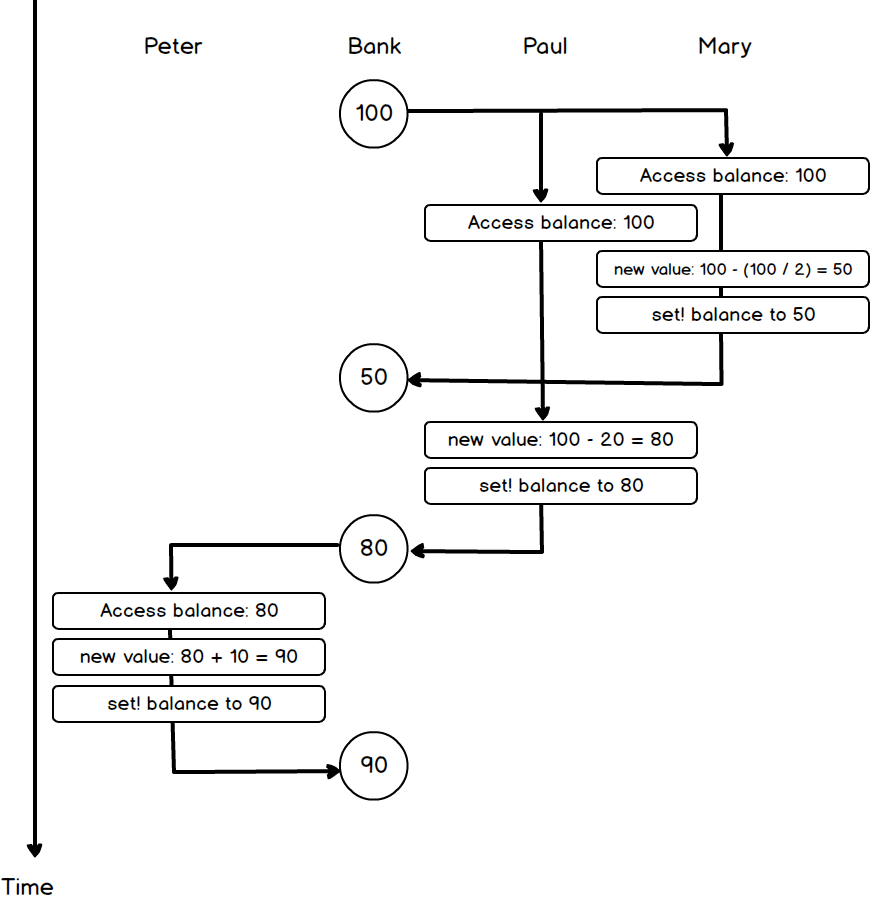
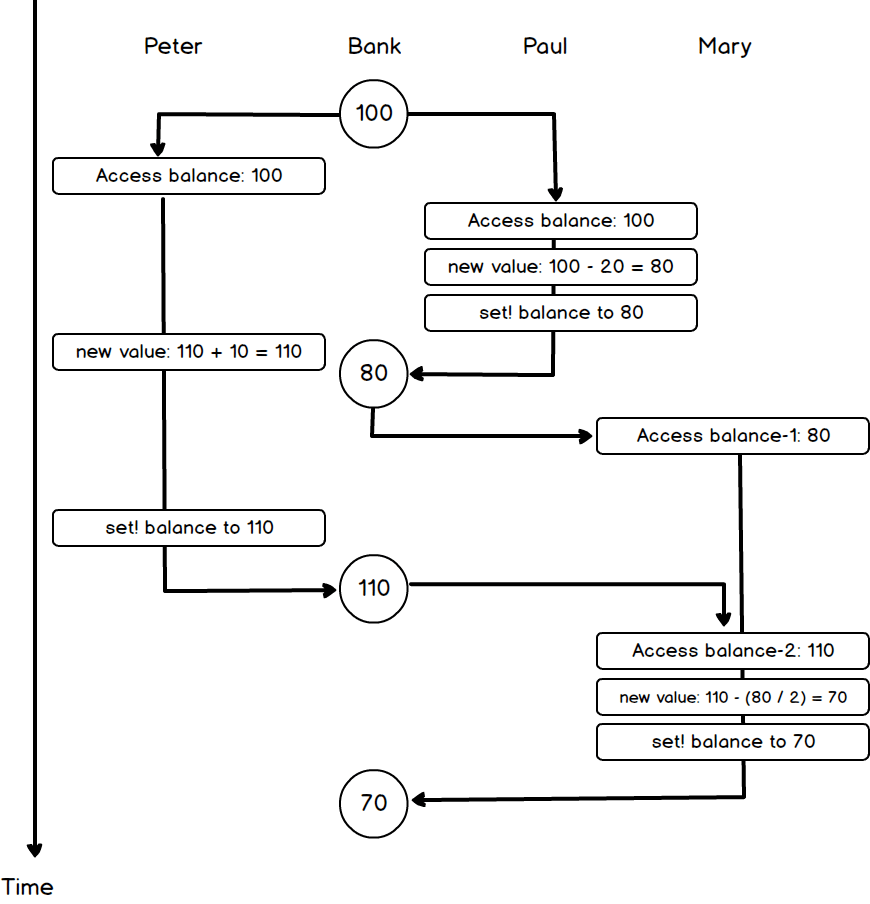
修正练习 3.38, 重新画图

Changed region(s): [[0.0621, 0.0929, 1.0, 0.9292], [0.9931, 0.4646, 1.0, 0.5265], [0.9931, 0.1549, 1.0, 0.2168]]

diff --git a/chapter_3/exercise_3_38.md b/chapter_3/exercise_3_38.md
@@ -53,63 +53,60 @@ balance 的最后结果为 45。
 1. 获取 balance。
 2. 计算新值，设置 balance。
 
-于是我们生成 
-
-`(list 'Peter-Get 'Peter-Set 'Paul-Get 'Paul-Set 'Mary-Get 'Mary-Set)`
-
-的全部排列，6 项的排列共有 720 种情况。
-
-但需要注意每个进程中，必须先执行 get, 再执行 set。因此
-
-* 'Peter-Get 必须排在 'Peter-Set 前面
-* 'Paul-Get 必须排在 'Paul-Set 前面
-* 'Mary-Get 必须排在 'Mary-Set 前面
-
-过滤掉某些排列，最后的可能情况为 `720 / (2! * 2! * 2!) = 90` 种。原始排列中，'Peter-Get、'Peter-Set 顺序不固定，两者谁在前的可能性一样。因此过滤掉每种强制顺序，都需要除以 2!。有 3 种强制顺序，也就除以 (2! * 2! * 2!)。
-
-注意这里有个细节，Mary 的进程为
+注意有个细节，Mary 的进程为
 
 ``` Scheme
 (set! balance (- balance (/ balance 2))
 ```
 
-根据解释器的实现，Mary 可能需要获取 balance 两次，也可能被优化成只获取 balance 一次。假如是两次的情况，就需要拆分成 Mary-Get-1、Mary-Get-2 进行排列，并且 Mary-Get-1 在 Mary-Get-2 前面。
+Mary 需要获取 balance 两次，每次都可能被打断。
 
-这样就会出现 7 项排列共 5040 种情况，再过滤掉强制顺序，可能情况为 `5040 / (2! * 2! * 3!) = 210` 种。
+于是我们生成 
 
-我们按照 Mary 进程只获取 balance 一次，共 6 项排列进行分析。会稍微简单些，方便画图，实际书中后续章节是按照多次访问变量来计算的，跟这里有点不同。[完整程序在这里](./exercise_3_38_b.scm)。
+`(list 'Peter-Get 'Peter-Set 'Paul-Get 'Paul-Set 'Mary-Get-1 'Mary-Get-2 'Mary-Set)`
+
+的全部排列，7 项排列共 5040 种情况。Mary 需要获取 balance 两次，就拆分成 Mary-Get-1、Mary-Get-2。
+
+每个进程中，必须先执行 get, 再执行 set。于是有下面的强制顺序
+
+* Peter-Get、Peter-Set
+* Paul-Get、Paul-Set
+* Mary-Get-1、Mary-Get-2、Mary-Set
+
+拿 Mary 进程来说，3 项的排列为 3!。但在强制顺序下，只剩下一种排列。于是过滤掉强制顺序，可能情况为 `5040 / (2! * 2! * 3!) = 210` 种。
+
+生成所有可能的排列顺序，逐一运行，得到每种可能的结果。
+
+[完整程序在这里](./exercise_3_38_b.scm)。
 
 输出如下（输出太长，没有全部列出):
 
 ```
-(Peter-Get Peter-Set Paul-Get Paul-Set Mary-Get Mary-Set): 45
-(Peter-Get Peter-Set Paul-Get Mary-Get Paul-Set Mary-Set): 55
-(Peter-Get Peter-Set Paul-Get Mary-Get Mary-Set Paul-Set): 90
-(Peter-Get Peter-Set Mary-Get Paul-Get Paul-Set Mary-Set): 55
-(Peter-Get Peter-Set Mary-Get Paul-Get Mary-Set Paul-Set): 90
-(Peter-Get Peter-Set Mary-Get Mary-Set Paul-Get Paul-Set): 35
-(Peter-Get Paul-Get Peter-Set Paul-Set Mary-Get Mary-Set): 40
+(Peter-Get Peter-Set Paul-Get Paul-Set Mary-Get-1 Mary-Get-2 Mary-Set): 45
+(Peter-Get Peter-Set Paul-Get Mary-Get-1 Paul-Set Mary-Get-2 Mary-Set): 35
+(Peter-Get Peter-Set Paul-Get Mary-Get-1 Mary-Get-2 Paul-Set Mary-Set): 55
+(Peter-Get Peter-Set Paul-Get Mary-Get-1 Mary-Get-2 Mary-Set Paul-Set): 90
+(Peter-Get Peter-Set Mary-Get-1 Paul-Get Paul-Set Mary-Get-2 Mary-Set): 35
+(Peter-Get Peter-Set Mary-Get-1 Paul-Get Mary-Get-2 Paul-Set Mary-Set): 55
+(Peter-Get Peter-Set Mary-Get-1 Paul-Get Mary-Get-2 Mary-Set Paul-Set): 90
 ....
-(Mary-Get Paul-Get Mary-Set Paul-Set Peter-Get Peter-Set): 90
-(Mary-Get Mary-Set Peter-Get Peter-Set Paul-Get Paul-Set): 40
-(Mary-Get Mary-Set Peter-Get Paul-Get Peter-Set Paul-Set): 30
-(Mary-Get Mary-Set Peter-Get Paul-Get Paul-Set Peter-Set): 60
-(Mary-Get Mary-Set Paul-Get Peter-Get Peter-Set Paul-Set): 30
-(Mary-Get Mary-Set Paul-Get Peter-Get Paul-Set Peter-Set): 60
-(Mary-Get Mary-Set Paul-Get Paul-Set Peter-Get Peter-Set): 40
-'(60 30 50 110 80 40 35 90 55 45)
+(Mary-Get-1 Mary-Get-2 Mary-Set Peter-Get Peter-Set Paul-Get Paul-Set): 40
+(Mary-Get-1 Mary-Get-2 Mary-Set Peter-Get Paul-Get Peter-Set Paul-Set): 30
+(Mary-Get-1 Mary-Get-2 Mary-Set Peter-Get Paul-Get Paul-Set Peter-Set): 60
+(Mary-Get-1 Mary-Get-2 Mary-Set Paul-Get Peter-Get Peter-Set Paul-Set): 30
+(Mary-Get-1 Mary-Get-2 Mary-Set Paul-Get Peter-Get Paul-Set Peter-Set): 60
+(Mary-Get-1 Mary-Get-2 Mary-Set Paul-Get Paul-Set Peter-Get Peter-Set): 40
+'(50 60 30 110 70 80 25 40 90 55 35 45)
 ```
 
-根据顺序不同，最终 balance 的可能值为 `(60 30 50 110 80 40 35 90 55 45)`。
-
-假如 Mary 进程获取 balance 两次，原理是一样的，稍微改改程序。定义 mary-balance-1、mary-balance-2 两个变量。最终 balance 的可能值为 `(50 60 30 110 70 80 25 40 90 55 35 45)`。[完整程序在这里](./exercise_3_38_b_2.scm)。
+根据顺序不同，最终 balance 的可能值为 `(50 60 30 110 70 80 25 40 90 55 35 45)`。
 
 ### 画图
 
 不可能每种情况都画出来，只画
 
 ```
-(Mary-Get Paul-Get Mary-Set Paul-Set Peter-Get Peter-Set): 90
+(Peter-Get Paul-Get Paul-Set Mary-Get-1 Peter-Set Mary-Get-2 Mary-Set): 70
 ```
 
 这种情况的时序图。
